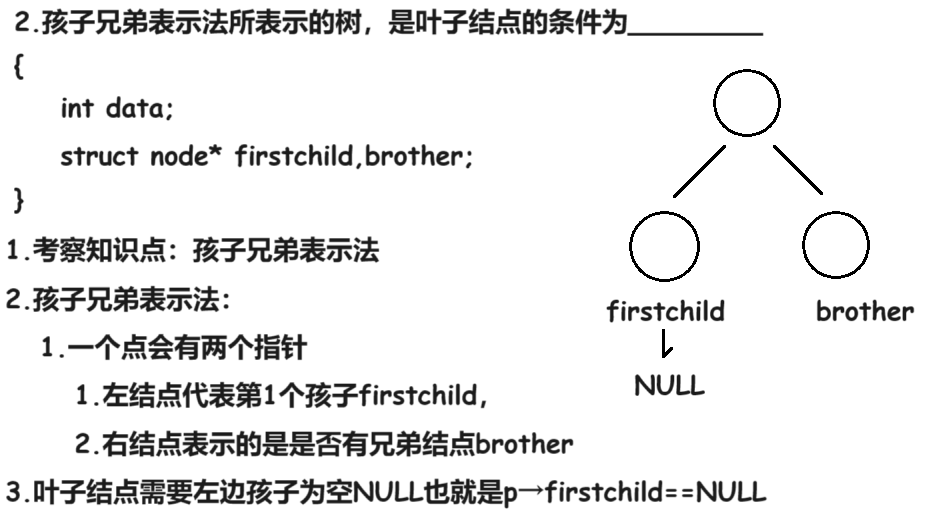
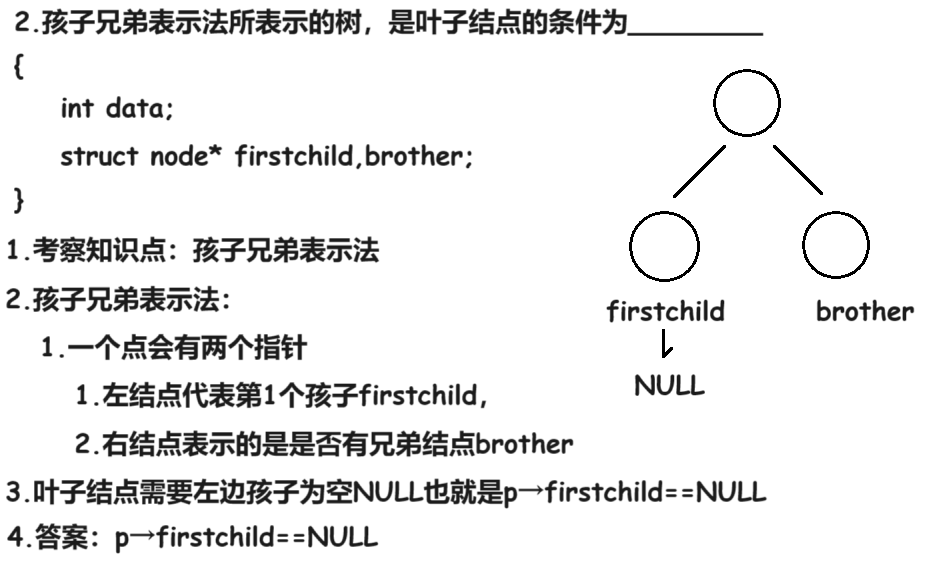
240219

diff --git a/01 题集/01 820/06 23/02 DS/02 填空题/03 填空题03 单链表 时间复杂度 240219/01 Doc.md b/01 题集/01 820/06 23/02 DS/02 填空题/03 填空题03 单链表 时间复杂度 240219/01 Doc.md
@@ -4,4 +4,4 @@
 
 # 02 视频解析
 
-<img src="https://cvp.oss-cn-shanghai.aliyuncs.com/picgo/202402191835134.png" alt="image-20240219183531013" style="zoom: 50%;" />
+<img src="https://cvp.oss-cn-shanghai.aliyuncs.com/picgo/202402191857084.png" alt="image-20240219185724963" style="zoom:50%;" />

diff --git a/01 题集/01 820/06 23/02 DS/02 填空题/02 填空题02 孩子兄弟表示法 叶子结点 240219/02 Doc.md b/01 题集/01 820/06 23/02 DS/02 填空题/02 填空题02 孩子兄弟表示法 叶子结点 240219/02 Doc.md
@@ -4,4 +4,4 @@
 
 # 02 视频解析
 
-<img src="https://cvp.oss-cn-shanghai.aliyuncs.com/picgo/202402191246691.png" alt="image-20240219124657612" style="zoom:50%;" />
+<img src="https://cvp.oss-cn-shanghai.aliyuncs.com/picgo/202402191855070.png" alt="image-20240219185557929" style="zoom:50%;" />

diff --git a/01 题集/01 820/06 23/02 DS/02 填空题/04 填空题04 广义表 240219/02 Doc.md b/01 题集/01 820/06 23/02 DS/02 填空题/04 填空题04 广义表 240219/02 Doc.md
@@ -6,4 +6,4 @@
 
 # 02 视频解析
 
-<img src="https://cvp.oss-cn-shanghai.aliyuncs.com/picgo/202402191849887.png" alt="image-20240219184905798" style="zoom:50%;" />
+<img src="https://cvp.oss-cn-shanghai.aliyuncs.com/picgo/202402191858603.png" alt="image-20240219185827490" style="zoom:50%;" />

diff --git a/01 题集/01 820/06 23/02 DS/02 填空题/05 填空题06 邻接表 240219/02 Doc.md b/01 题集/01 820/06 23/02 DS/02 填空题/05 填空题06 邻接表 240219/02 Doc.md
@@ -1,0 +1,8 @@
+# 01 题目
+
+<img src="https://cvp.oss-cn-shanghai.aliyuncs.com/picgo/202402191852609.png" alt="image-20240219185257493" style="zoom:50%;" />
+
+
+
+# 02 视频解析
+
